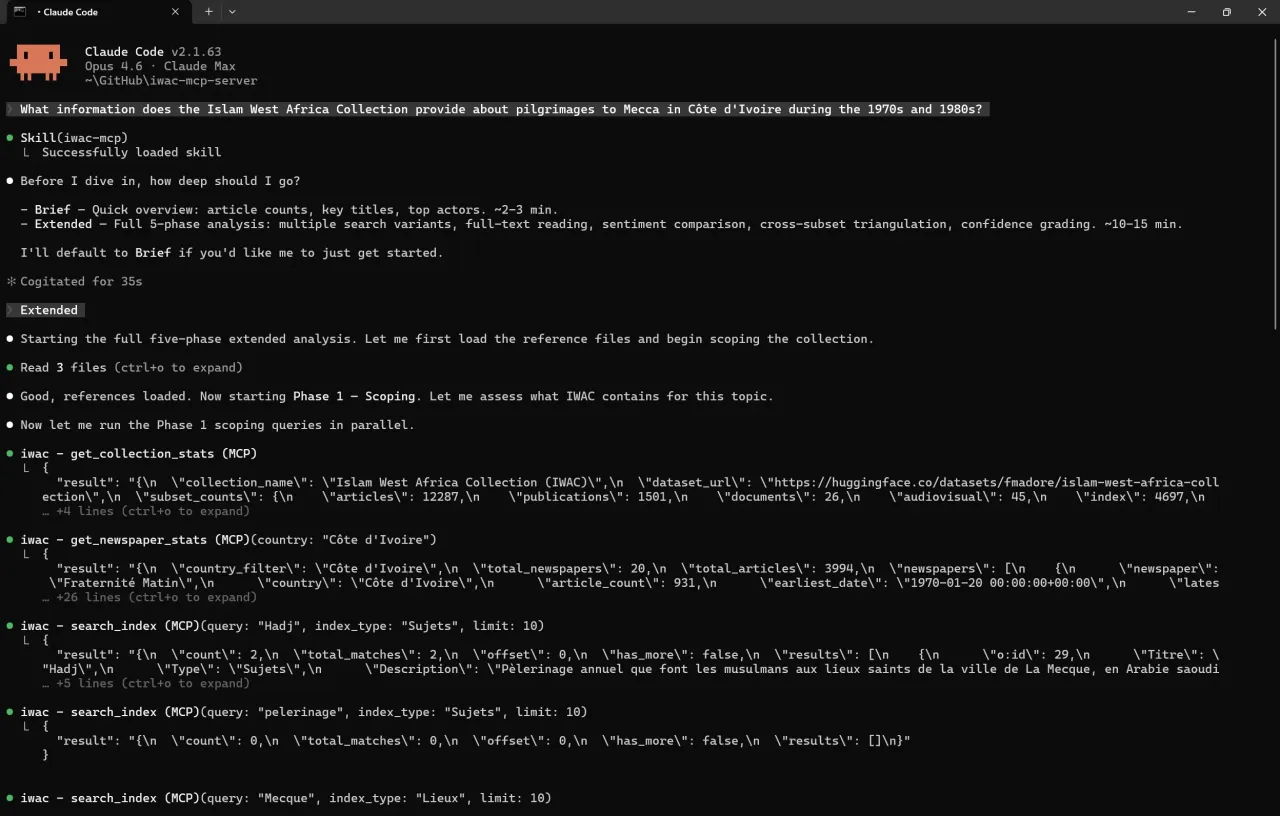
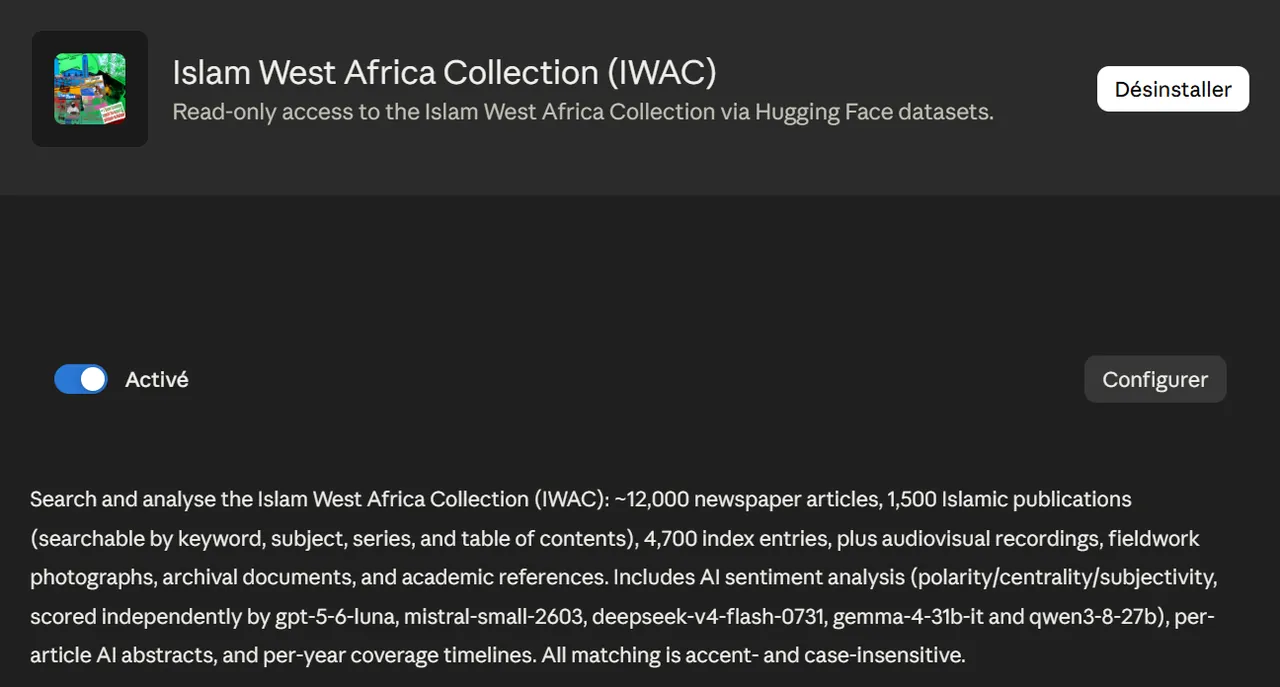
Copy edit the IWAC MCP server page and replace its screenshot
Rewrite the description in plainer language and bring it up to date with
the server: nearly forty read-only tools instead of sixteen, the hosted
connector for Claude and ChatGPT, the one-click Claude Desktop extension
with local semantic search, charts rendered in Claude, bibliography export,
Islamic-calendar analysis, and the five-model sentiment panel. Condense the
research skill and the data-control argument into short sections.

Replace the old Claude Code terminal capture with the IWAC extension in
Claude Desktop. Add the Zenodo software DOI to the links, and update the
methods keywords to the TypeScript rewrite (DuckDB, embeddings, semantic
search, agent skills, Docker).

diff --git a/src/lib/data/digital-humanities/iwac-mcp-server.ts b/src/lib/data/digital-humanities/iwac-mcp-server.ts
@@ -5,46 +5,47 @@ export const iwacMcpServer: DigitalHumanitiesProject = {
 	title: 'IWAC MCP Server',
 	years: '2026-',
 	shortDescription:
-		'A Model Context Protocol server and companion agent skill that give AI assistants structured, read-only access to the Islam West Africa Collection — overcoming the limitations of keyword search through structured, AI-mediated access to the corpus.',
-	description:
-		'<p>Keyword search, the default entry point for most digital collections, struggles with a corpus like the <a href="https://islam.zmo.de/s/westafrica/" target="_blank" rel="noopener noreferrer"><em>Islam West Africa Collection</em></a>. The term "hadj" retrieves both articles about the pilgrimage to Mecca and those mentioning individuals bearing the honorific "El Hadj." A single imam may appear under more than twenty spelling variants. Searches miss synonyms and conceptual relationships: a query for "hajj" will not surface documents discussing "pilgrimage to Mecca" unless those exact words appear.</p>' +
-		'<p>This <a href="https://modelcontextprotocol.io/docs/getting-started/intro" target="_blank" rel="noopener noreferrer">Model Context Protocol</a> (MCP) server and its companion <a href="https://platform.claude.com/docs/en/agents-and-tools/agent-skills/overview" target="_blank" rel="noopener noreferrer">agent skill</a> address these barriers by giving AI assistants structured, read-only access to the entire IWAC through the <a href="https://modelcontextprotocol.io/" target="_blank" rel="noopener noreferrer">Model Context Protocol</a> — an open standard that does for AI what the <a href="https://iiif.io/" target="_blank" rel="noopener noreferrer">International Image Interoperability Framework</a> (IIIF) does for images: a decentralised interface that preserves institutional data sovereignty while enabling discovery.</p>' +
-		'<h2>What the server provides</h2>' +
-		'<p>Sixteen read-only tools let any MCP-compatible AI assistant — Claude, ChatGPT, or open-source models — search and retrieve data from the collection without API credentials. The tools cover:</p>' +
-		'<ul>' +
-		'<li><strong>Article search:</strong> Find newspaper articles by keyword, country, newspaper, subject, date range, or any combination</li>' +
-		'<li><strong>Full article retrieval:</strong> Access complete metadata and OCR text for individual articles</li>' +
-		'<li><strong>Authority records:</strong> Query the index of persons, places, organisations, events, and subjects, with frequency statistics and date ranges</li>' +
-		'<li><strong>Sentiment analysis:</strong> Retrieve and compare polarity, centrality, and subjectivity assessments from three AI models (Gemini, ChatGPT, Mistral) for any article</li>' +
-		'<li><strong>Collection statistics:</strong> Get aggregate data on corpus size, newspaper coverage, and cross-country comparisons</li>' +
-		'</ul>' +
-		'<h2>The agent skill: from plumbing to intelligence</h2>' +
-		'<p>A server alone provides plumbing — raw access to data. The companion <a href="https://github.com/fmadore/iwac-mcp-server/tree/main/.agents/skills/iwac-mcp" target="_blank" rel="noopener noreferrer">agent skill</a>, a modular instruction set written in Markdown, encodes the domain knowledge that transforms tool access into methodical research. It structures the AI\'s reasoning into a five-phase workflow inspired by archival research practice:</p>' +
-		'<ol>' +
-		'<li><strong>Scoping:</strong> Assess collection coverage for a given topic across countries, newspapers, and time periods</li>' +
-		'<li><strong>Systematic searching:</strong> Deploy French-language variants and Arabic-Islamic transliteration alternatives to overcome the vocabulary problem</li>' +
-		'<li><strong>Deep reading:</strong> Retrieve and analyse full-text articles, comparing sentiment assessments across AI models</li>' +
-		'<li><strong>Triangulation:</strong> Cross-reference findings across subsets — articles, index entries, publications, references — to build a fuller picture</li>' +
-		'<li><strong>Synthesis:</strong> Produce structured findings with source attribution and confidence grading</li>' +
-		'</ol>' +
-		'<p>The skill also documents collection biases — which countries and decades have stronger coverage, which newspapers are over- or under-represented — so that the AI can contextualise its findings rather than present them as exhaustive.</p>' +
-		'<h2>Why MCP rather than fine-tuning?</h2>' +
-		'<p>Approaches like fine-tuning or retrieval-augmented generation require surrendering data to external training pipelines. MCP takes a different path: the collection stays on its own infrastructure while AI assistants query it through defined, inspectable tools. For African digital collections, historically subject to extractive knowledge practices, this matters. The institution retains full control over its data. The skill layer makes every assumption transparent and versionable. And because MCP is an open standard, any AI model — commercial or open-source — can use the same tools without vendor lock-in.</p>',
+		'An open-source connector that lets AI assistants such as Claude and ChatGPT search, read and analyse the Islam West Africa Collection, with every answer linked back to its sources.',
+	description: `
+		<p>Search the <a href="https://islam.zmo.de/s/westafrica/" target="_blank" rel="noopener noreferrer"><em>Islam West Africa Collection</em></a> for "hadj" and you get articles about the pilgrimage to Mecca mixed with every man honoured as "El Hadj". A single imam can appear under more than twenty spellings. And a search for "hajj" misses articles that only say "pèlerinage à La Mecque". Keyword search, the default way into most digital archives, struggles with a corpus like this one.</p>
+		<p>The IWAC MCP server offers another way in. It lets an AI assistant you already use, such as Claude or ChatGPT, query the collection on your behalf, in any language. The assistant translates your question into suitable searches, reads the relevant records and writes a synthesis in which every claim links back to its source in IWAC, so you can check it yourself.</p>
+
+		<h2>What an assistant can do with it</h2>
+		<p>The server works through the <a href="https://modelcontextprotocol.io/" target="_blank" rel="noopener noreferrer">Model Context Protocol</a> (MCP), an open standard for connecting AI assistants to outside sources. It offers nearly forty read-only tools, which let an assistant:</p>
+		<ul>
+			<li><strong>Search</strong> newspaper articles, Islamic publications, archives, recordings, photographs and academic references, by keyword or by meaning</li>
+			<li><strong>Read</strong> full texts and transcriptions, or just the passages around a keyword</li>
+			<li><strong>Count and compare</strong>: coverage across countries, newspapers and decades, the topics and places a set of articles dwells on, and even how coverage rises in Ramadan and around Tabaski</li>
+			<li><strong>Weigh press attitudes</strong>: how five AI models read the tone of each article, and where they disagree (all five agree on fewer than a third)</li>
+			<li><strong>Export</strong> a selection as a bibliography for Zotero or BibTeX</li>
+		</ul>
+		<p>In Claude, many of these answers appear as interactive charts rather than tables of figures.</p>
+
+		<h2>A method, not only data</h2>
+		<p>The server gives access; a companion <a href="https://github.com/fmadore/iwac-mcp-server/tree/main/.agents/skills/iwac-mcp" target="_blank" rel="noopener noreferrer">research skill</a> teaches the assistant how to use it well. It works like an archivist's checklist: first establish what the collection holds, then search French sources with their spelling and transliteration variants (Maouloud, Mawlid), read the key records closely, compare different kinds of material, and report the evidence with its limits. The skill also tells the assistant where the collection is thin, so it does not present partial coverage as the whole story.</p>
+
+		<h2>Easy to connect, safe by design</h2>
+		<p>Anyone can add the hosted connector to Claude or ChatGPT without a download, sign-up or API key; the collection's <a href="https://islam.zmo.de/s/westafrica/page/ai-access" target="_blank" rel="noopener noreferrer">Ask with AI page</a> walks through the setup. Claude Desktop users can also install it in one click and run semantic search on their own computer, so no query leaves the machine.</p>
+		<p>The design keeps the collection under the control of the institution that built it. The server only reads; it cannot change the archive. Nothing is handed over to train a model, and because MCP is an open standard, commercial and open-weight models can use the same tools. For African collections, long subject to extractive knowledge practices, that control matters.</p>
+	`,
 	imageUrl: '/images/digital-humanities/iwac-mcp-server.webp',
 	order: 0,
 	links: [
 		{ url: 'https://islam.zmo.de/s/westafrica/page/ai-access' },
-		{ url: 'https://github.com/fmadore/iwac-mcp-server', type: 'code' }
+		{ url: 'https://github.com/fmadore/iwac-mcp-server', type: 'code' },
+		{ url: 'https://doi.org/10.5281/zenodo.21805837', label: 'Software DOI (Zenodo)', type: 'code' }
 	],
 	skills: [
-		'Python',
+		'TypeScript',
 		'Model Context Protocol',
 		'LLM',
 		'Prompt Engineering',
-		'pandas',
+		'Agent skills',
+		'DuckDB',
 		'Hugging Face',
-		'JSON',
-		'Omeka S API'
+		'Embeddings',
+		'Semantic search',
+		'Docker'
 	],
 	seoKeywords: [
 		'Model Context Protocol',
@@ -58,6 +59,7 @@ export const iwacMcpServer: DigitalHumanitiesProject = {
 		'data sovereignty',
 		'open standard',
 		'Claude',
+		'ChatGPT',
 		'archival research'
 	]
 };

diff --git a/src/lib/data/digital-humanities/summaries.generated.ts b/src/lib/data/digital-humanities/summaries.generated.ts
@@ -348,7 +348,7 @@ export const dhProjectSummaries: DigitalHumanitiesSummary[] = [
 		"id": "iwac-mcp-server",
 		"title": "IWAC MCP Server",
 		"years": "2026-",
-		"shortDescription": "A Model Context Protocol server and companion agent skill that give AI assistants structured, read-only access to the Islam West Africa Collection — overcoming the limitations of keyword search through structured, AI-mediated access to the corpus.",
+		"shortDescription": "An open-source connector that lets AI assistants such as Claude and ChatGPT search, read and analyse the Islam West Africa Collection, with every answer linked back to its sources.",
 		"imageUrl": "/images/digital-humanities/iwac-mcp-server.webp",
 		"order": 0,
 		"links": [
@@ -358,17 +358,24 @@ export const dhProjectSummaries: DigitalHumanitiesSummary[] = [
 			{
 				"url": "https://github.com/fmadore/iwac-mcp-server",
 				"type": "code"
+			},
+			{
+				"url": "https://doi.org/10.5281/zenodo.21805837",
+				"label": "Software DOI (Zenodo)",
+				"type": "code"
 			}
 		],
 		"skills": [
-			"Python",
+			"TypeScript",
 			"Model Context Protocol",
 			"LLM",
 			"Prompt Engineering",
-			"pandas",
+			"Agent skills",
+			"DuckDB",
 			"Hugging Face",
-			"JSON",
-			"Omeka S API"
+			"Embeddings",
+			"Semantic search",
+			"Docker"
 		],
 		"seoKeywords": [
 			"Model Context Protocol",
@@ -382,6 +389,7 @@ export const dhProjectSummaries: DigitalHumanitiesSummary[] = [
 			"data sovereignty",
 			"open standard",
 			"Claude",
+			"ChatGPT",
 			"archival research"
 		]
 	},

diff --git a/src/lib/data/imageVariants.generated.ts b/src/lib/data/imageVariants.generated.ts
@@ -172,7 +172,7 @@ export const imageVariantManifest: Readonly<Record<string, ImageVariantManifestE
 	'digital-humanities/islam-burkinafaso-banner.webp': [1280, 533],
 	'digital-humanities/iwac-ai-pipelines.webp': [1280, 746],
 	'digital-humanities/iwac-bibliographic-data-wikidata.svg': [816, 816],
-	'digital-humanities/iwac-mcp-server.webp': [1280, 816],
+	'digital-humanities/iwac-mcp-server.webp': [1280, 687],
 	'digital-humanities/iwac-sentiment-analysis.webp': [1280, 800],
 	'digital-humanities/IWAC.webp': [1280, 690],
 	'digital-humanities/live-translation.webp': [1280, 821],
